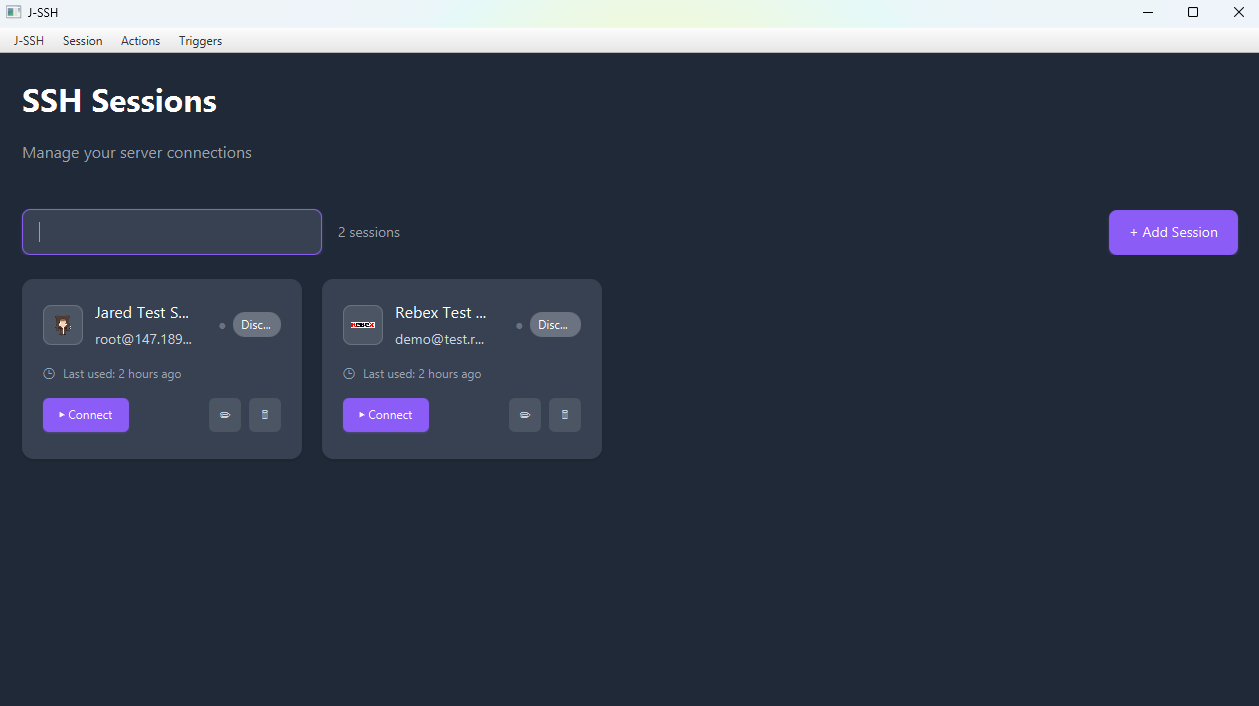
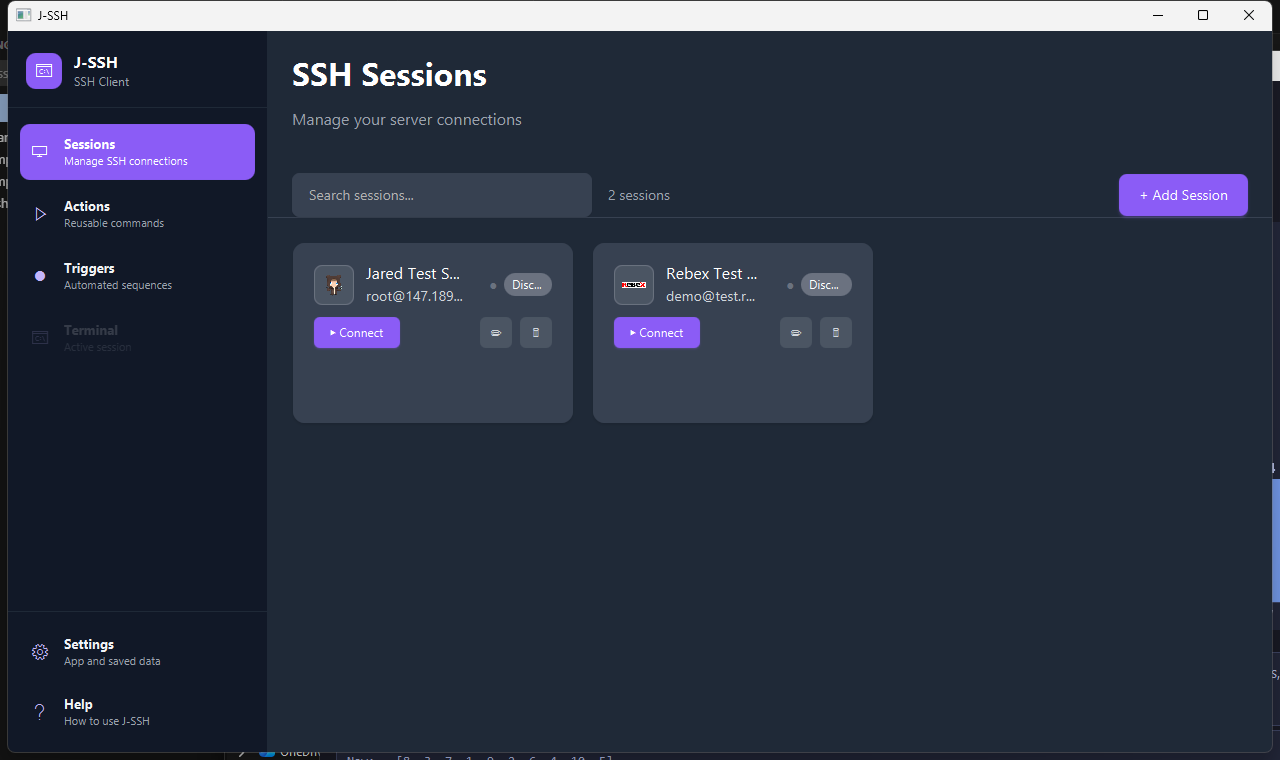
Update images and enhance MyUserInfo class functionality
- Updated binary images for J-SSH actions, dashboard, terminal, and triggers.
- Modified MyUserInfo class to return the password directly when prompted with a single input, improving user interaction during keyboard input.

diff --git a/src/main/java/com/j_ssh/api/MyUserInfo.java b/src/main/java/com/j_ssh/api/MyUserInfo.java
@@ -59,6 +59,9 @@ public class MyUserInfo implements UserInfo, UIKeyboardInteractive {
 
     @Override
     public String[] promptKeyboardInteractive(String destination, String name, String instruction, String[] prompt, boolean[] echo) {
+        if (passwd != null && prompt != null && prompt.length == 1) {
+            return new String[]{passwd};
+        }
         return showKeyboardInteractiveDialog(destination, name, instruction, prompt, echo);
     }
 
